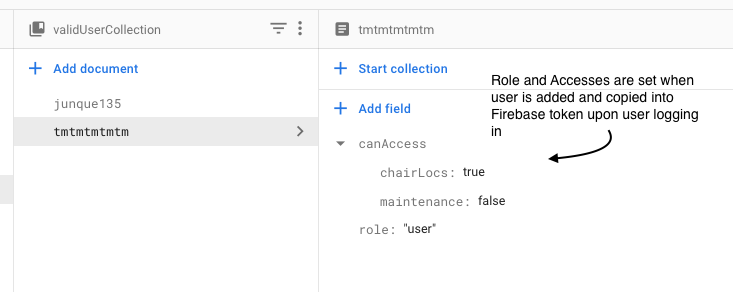
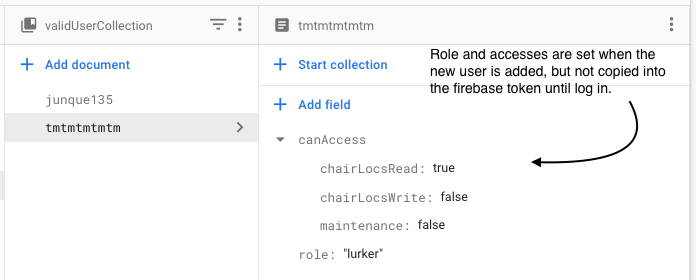
r

diff --git a/README.md b/README.md
@@ -241,7 +241,7 @@ providerData:[{uid: "107324-------------16", displayName: "TT MM", email: "junqu
 
 ```
 
-What I've seen is that the user has to have logged in before a Firebase user object exists. So, I'll need to grant the customClaims on the Firebase token upon login, not when the user has been added.
+The user has to have logged in before a Firebase user object exists, therefore granting customClaims must be performed upon login, not when the user has been added.
 
 ![](/markdownImages/validUserDocument.png)
 
